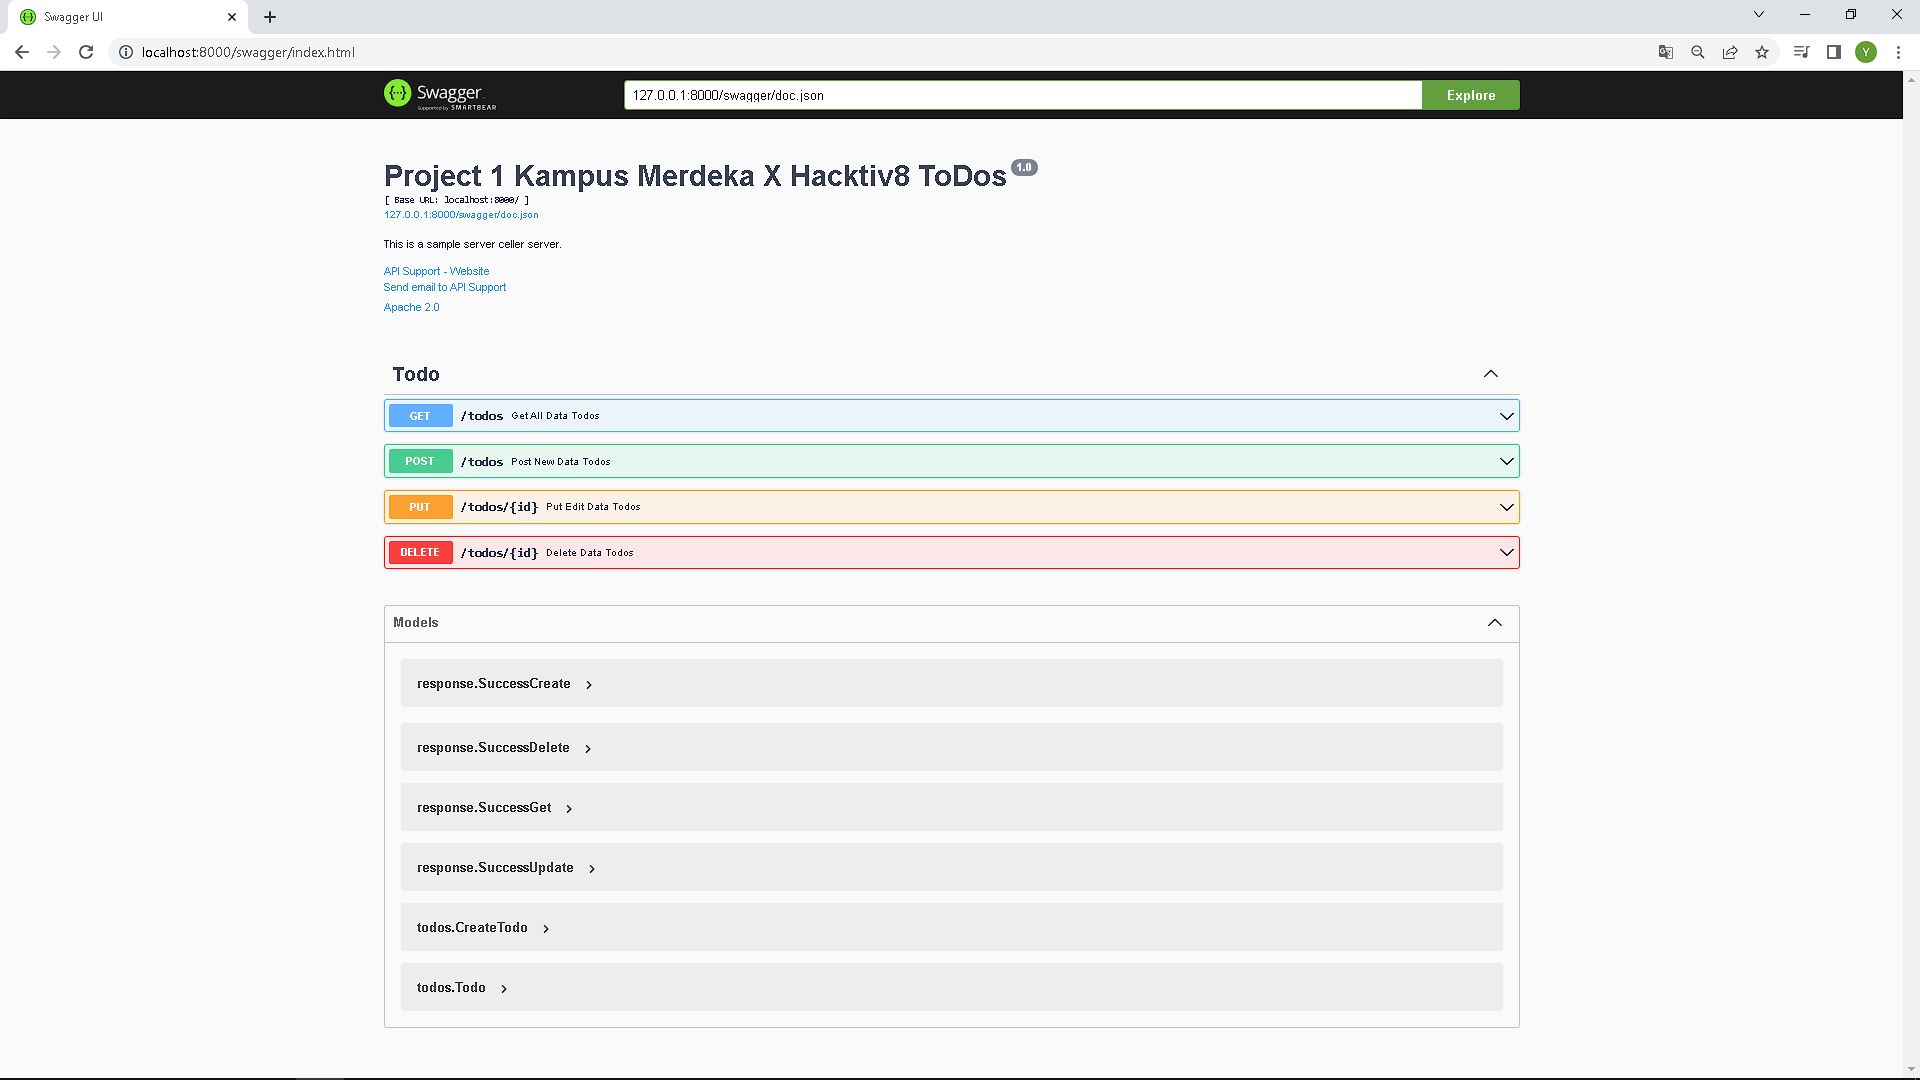
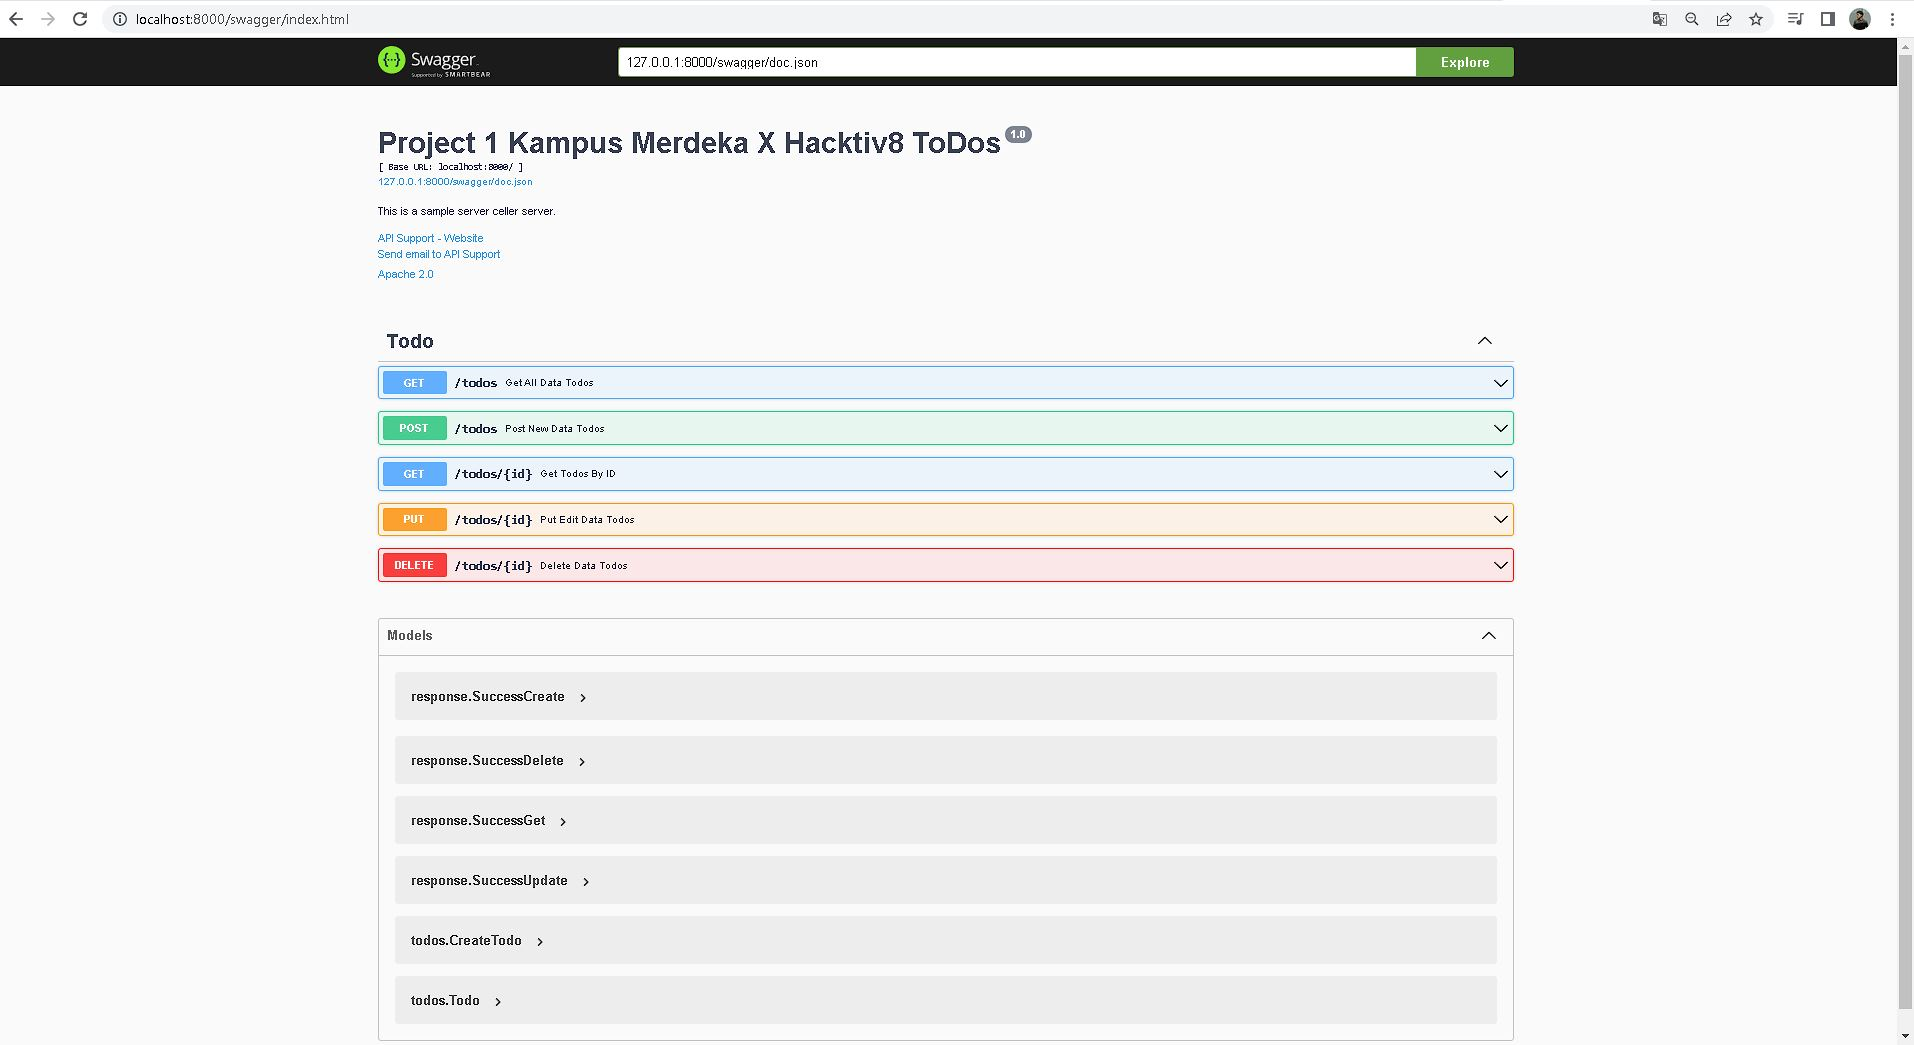
Update Documentations

Changed region(s): [[0.0, 0.0, 1.0, 1.0], [0.185, 0.3368, 0.8015, 0.9187], [0.185, 0.9493, 0.8015, 1.0]]

diff --git a/README.md b/README.md
@@ -1,0 +1,20 @@
+# Final-Project-1-Hacktiv8-KampusMerdeka
+
+Port: :8000
+
+Swagger url: http://127.0.0.1:8000/swagger/index.html
+
+Pembagian Tugas
+
+GLNG-KS04-017_Alrico Rizki Wibowo = Method GetAll dan Update
+
+GLNG-KS04-022_Ricky Khairul Faze = Swagger dan Method GetById
+
+GLNG-KS04-024_Muhammad Rafid = Method Create dan Delete
+ 
+<p align="center">
+    <br>
+    <a>
+        <img src="https://telegra.ph/file/389cfb2085f74a79682f3.jpg">
+    </a>    
+</p>
